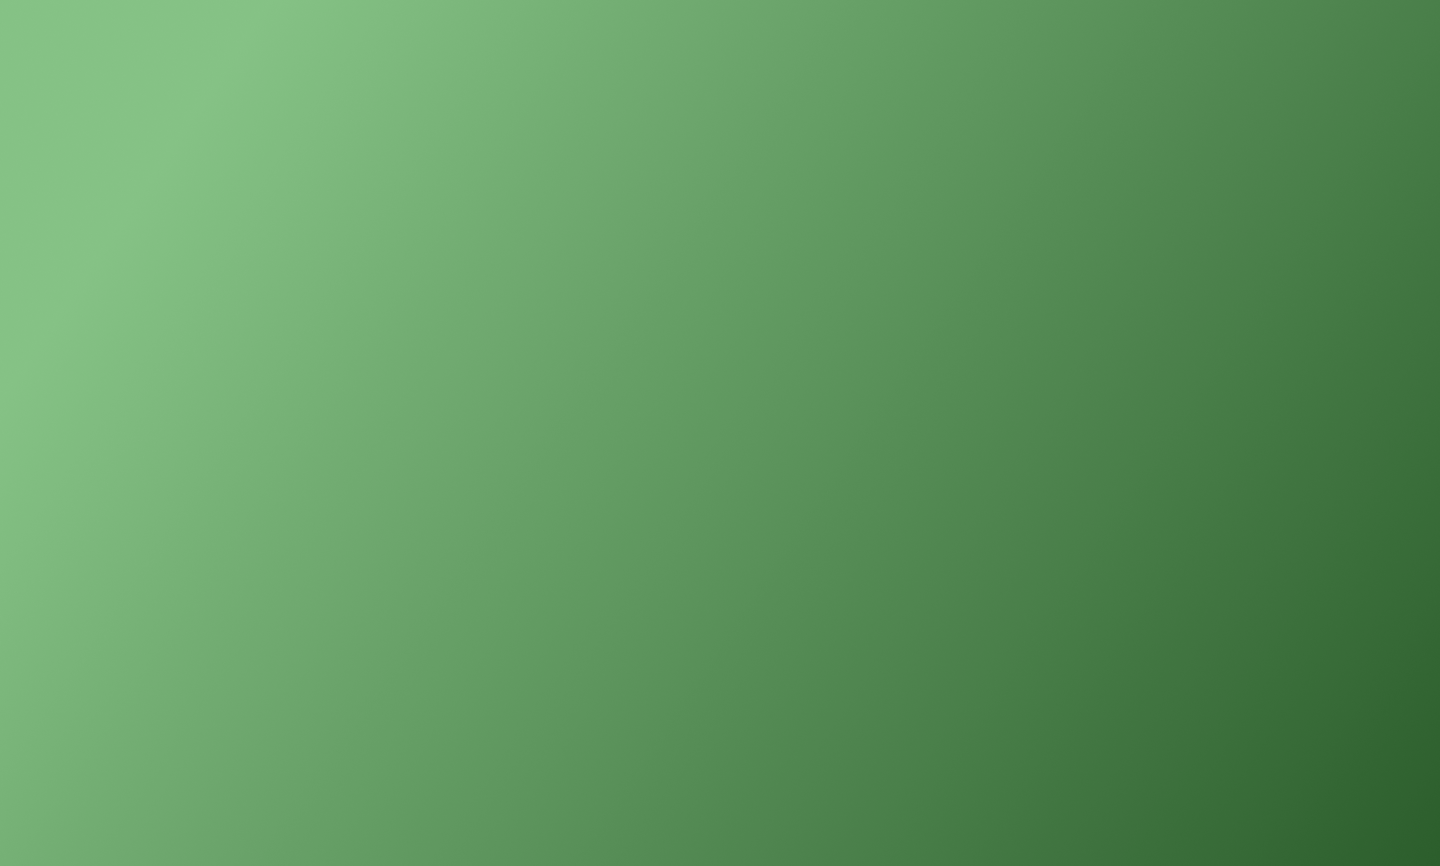
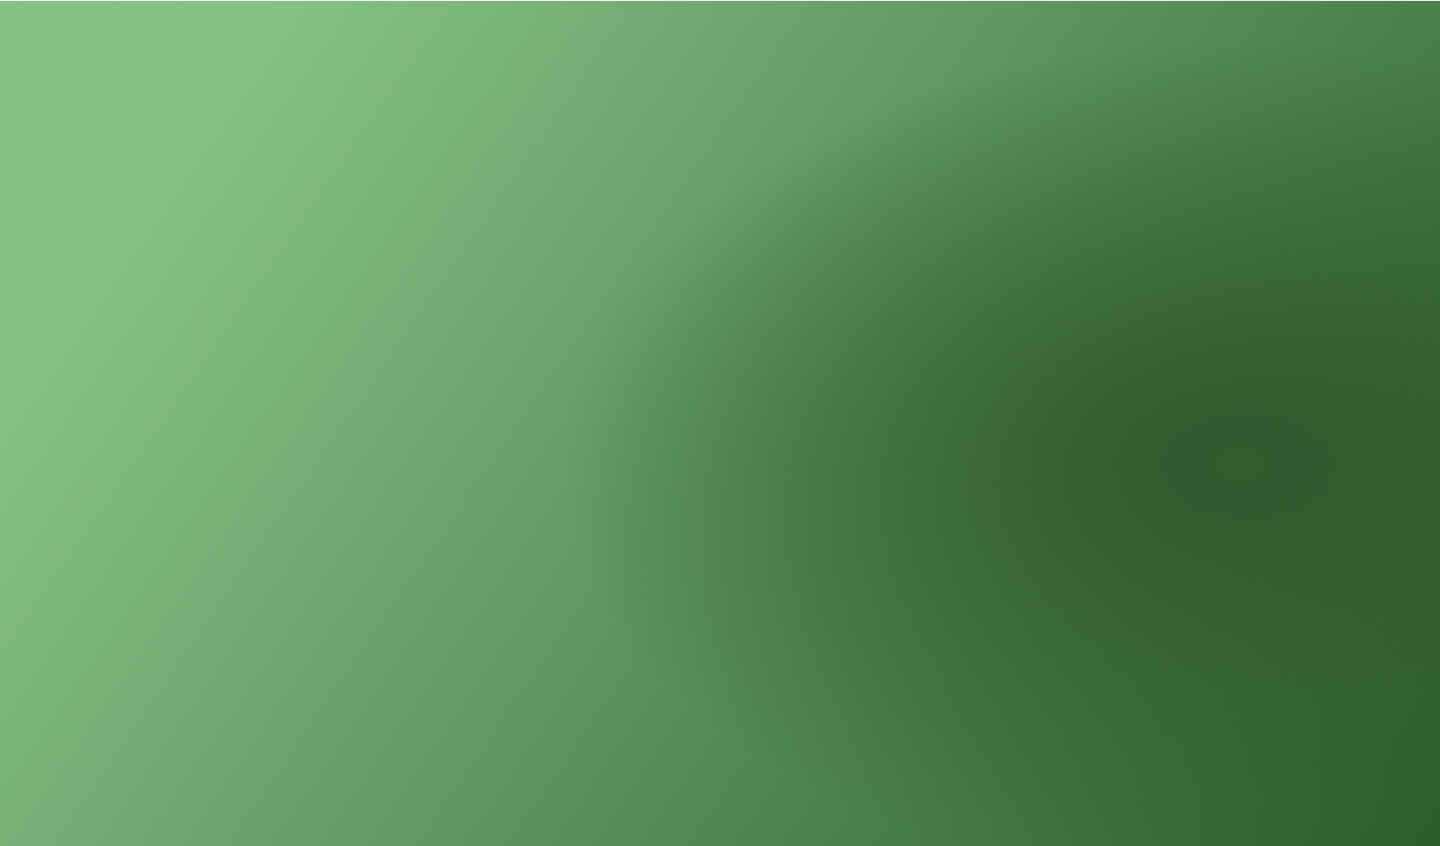
Changing many things started from image, margin and padding, homeview and tentangveiw

Changed region(s): [[0.5625, 0.3073, 0.9375, 0.7069]]

diff --git a/src/components/Storepreview.vue b/src/components/Storepreview.vue
@@ -1,19 +1,30 @@
 <template>
   <b-card>
-    <div class="row mt-4">
-      <div class="col-md-2">
+    <div class="row mt-4 px-3">
+      <div class="col" style="padding-left:0">
         <img
           src="@/assets/img/logo-rmhbmb.png"
           class="img-fluid"
           alt="Responsive image"
         />
       </div>
-      <div class="col-md-10">
-        <b-card-title>Produk Rumah Bamboe</b-card-title>
-        <b-card-text>
+      <div class="col-md-11" style="align-self: center; padding-left:0">
+        <h4 class="card-title"><Strong>Produk Rumah Bamboe</Strong></h4>
+        <p class="card-text">
           Berikut merupakan beberapa produk terlaris yang dijual oleh Rumah
           Bamboe
-        </b-card-text>
+        </p>
+      </div>
+      <div class="row mt-4">
+        <div class="col-md-4">
+          <img src="@/assets/img/produk-1.png" class="rounded img-fluid" />
+        </div>
+        <div class="col-md-4">
+          <img src="@/assets/img/produk-2.png" class="rounded img-fluid" />
+        </div>
+        <div class="col-md-4">
+          <img src="@/assets/img/produk-3.png" class="rounded img-fluid" />
+        </div>
       </div>
     </div>
   </b-card>

diff --git a/src/components/Qrcodeid.vue b/src/components/Qrcodeid.vue
@@ -3,18 +3,17 @@
   <header class="masthead">
     <div class="container">
       <div class="row mt-4">
-        <div class="col-md-6">
-          <div class="masthead-subheading">Welcome To Our Studio!</div>
-          <div class="masthead-heading text-uppercase">
-            It's Nice To Meet You
-          </div>
-          <a class="btn btn-primary btn-xl text-uppercase" href="#services"
-            >Tell Me More</a
-          >
+        <div class="col-md-6" style="align-self: center">
+          <h1 style="text-align: left">
+            Lihat detail produk dengan memasukkan ID QRCode
+          </h1>
+          <p style="text-align: left">
+            Masukan ID QRCode untuk mendapatkan detail produk
+          </p>
         </div>
         <div class="col-md-6">
           <img
-            src="@/assets/img/tentang-pict.png"
+            src="@/assets/img/home-pict.png"
             class="img-fluid"
             alt="Responsive image"
           />

diff --git a/src/assets/css/main.css b/src/assets/css/main.css
@@ -8,7 +8,14 @@ h5.informasiproduk {
 }
 
 section.bgtentang {
+    padding-top: 10rem;
+    padding-bottom: 10rem;
+    text-align: center;
     background-image: url('@/assets/img/tentang-bg.png');
+    background-repeat: no-repeat;
+    background-attachment: scroll;
+    background-position: center center;
+    background-size: cover;
 }
 
 .nav-link {
@@ -21,8 +28,8 @@ section.bgtentang {
 } */
 
 header.masthead {
-    padding-top: 10.5rem;
-    padding-bottom: 6rem;
+    padding-top: 3.5rem;
+    padding-bottom: 3rem;
     text-align: center;
     color: #fff;
     background-image: url('@/assets/img/home-bg.png');

diff --git a/src/components/Aboutpage.vue b/src/components/Aboutpage.vue
@@ -1,6 +1,5 @@
 <template>
-  <section class="bgtentang">
-    <!-- style="background-image: url(../assets/img/tentang-bg.png)" -->
+  <section class="bgtentang" style="text-align: -webkit-center">
     <div class="card" style="width: 32rem">
       <div class="row mt-4">
         <div class="col-md-6">
